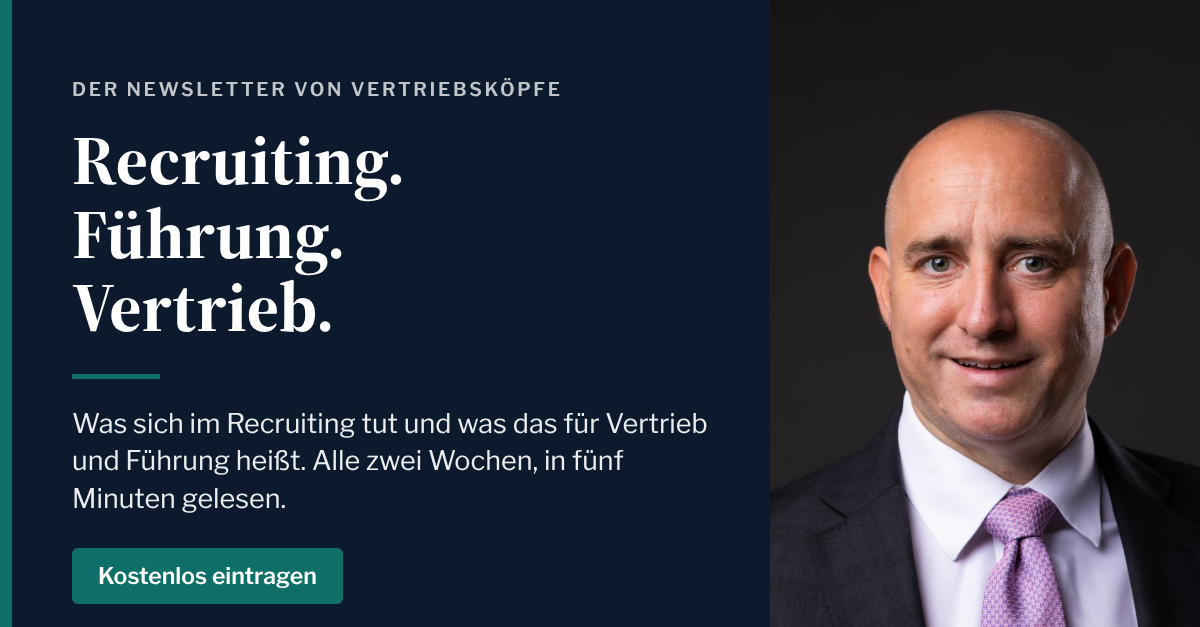
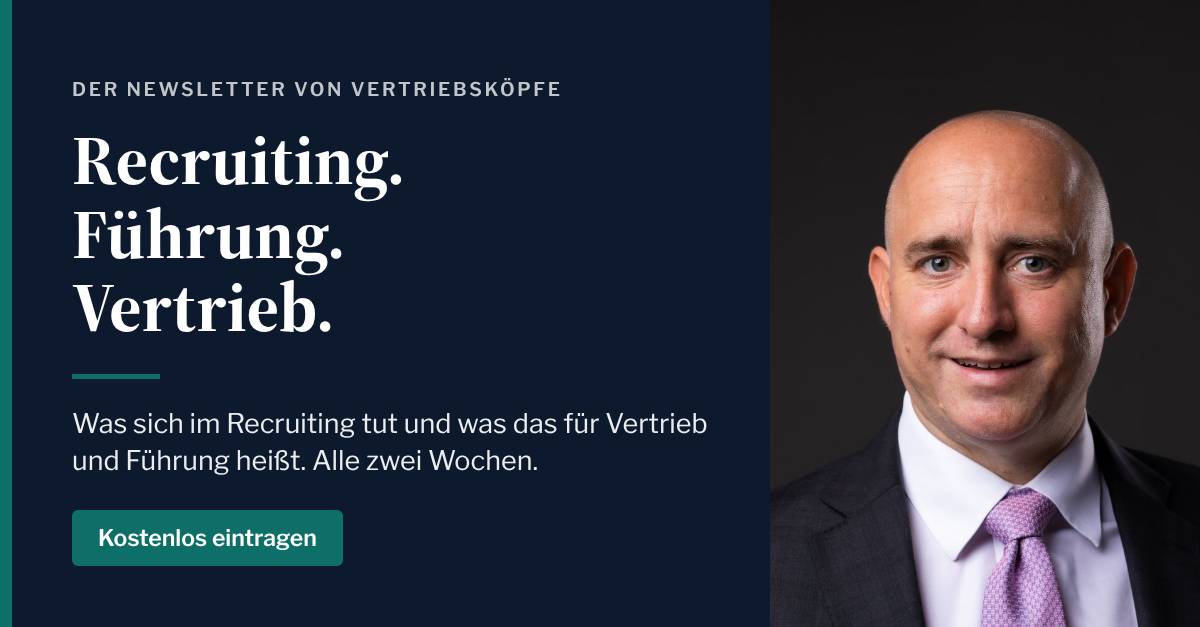
Newsletter: Lesezeit-Hinweis entfernt

Changed region(s): [[0.0617, 0.7576, 0.3083, 0.9697], [0.4317, 0.7273, 0.5242, 0.7576]]

diff --git a/newsletter/index.html b/newsletter/index.html
@@ -797,7 +797,7 @@
 <section>
   <div class="wrap">
     <p class="eyebrow rev">Was in jeder Ausgabe steht</p>
-    <h2 class="rev">Sechs feste Teile. In fünf Minuten gelesen.</h2>
+    <h2 class="rev">Sechs feste Teile in jeder Ausgabe.</h2>
     <div class="dl-raster nl-blocks rev">
       <div class="dl-karte"><p class="step">1 · Szene</p><h3>Aus der Praxis</h3><p>Eine echte Situation aus Vertrieb und Personalberatung. Was passiert ist und was man daraus macht.</p></div>
       <div class="dl-karte"><p class="step">2 · Die Zahl</p><h3>Aus echten Stellenanzeigen</h3><p>Eine Zahl aus den Vakanzdaten der Bundesagentur für Arbeit, eingeordnet für Vertriebsstellen.</p></div>

diff --git a/index.html b/index.html
@@ -1001,7 +1001,7 @@
   <div class="wrap">
     <p class="eyebrow rev">Newsletter · <span class="nl-name">Recruiting. Führung. Vertrieb.</span></p>
     <h2 class="rev">Alle zwei Wochen: Recruiting, übersetzt für den Vertrieb.</h2>
-    <p class="lead rev">Eine Szene aus der Praxis, eine Zahl aus echten Stellenanzeigen, ein Werkzeug. In fünf Minuten gelesen, abmelden mit einem Klick.</p>
+    <p class="lead rev">Eine Szene aus der Praxis, eine Zahl aus echten Stellenanzeigen, ein Werkzeug. Abmelden mit einem Klick.</p>
     <div class="cta-row rev"><a class="btn" href="/newsletter/#anmeldung">Newsletter abonnieren</a></div>
   </div>
 </section>

diff --git a/downloads/index.html b/downloads/index.html
@@ -874,7 +874,7 @@
   <div class="wrap">
     <p class="eyebrow rev">Newsletter · <span class="nl-name">Recruiting. Führung. Vertrieb.</span></p>
     <h2 class="rev">Alle zwei Wochen: Recruiting, übersetzt für den Vertrieb.</h2>
-    <p class="lead rev">Eine Szene aus der Praxis, eine Zahl aus echten Stellenanzeigen, ein Werkzeug. In fünf Minuten gelesen, abmelden mit einem Klick.</p>
+    <p class="lead rev">Eine Szene aus der Praxis, eine Zahl aus echten Stellenanzeigen, ein Werkzeug. Abmelden mit einem Klick.</p>
     <div class="cta-row rev"><a class="btn" href="/newsletter/#anmeldung">Newsletter abonnieren</a></div>
   </div>
 </section>

diff --git a/wissen/index.html b/wissen/index.html
@@ -869,7 +869,7 @@
   <div class="wrap">
     <p class="eyebrow rev">Newsletter · <span class="nl-name">Recruiting. Führung. Vertrieb.</span></p>
     <h2 class="rev">Alle zwei Wochen: Recruiting, übersetzt für den Vertrieb.</h2>
-    <p class="lead rev">Eine Szene aus der Praxis, eine Zahl aus echten Stellenanzeigen, ein Werkzeug. In fünf Minuten gelesen, abmelden mit einem Klick.</p>
+    <p class="lead rev">Eine Szene aus der Praxis, eine Zahl aus echten Stellenanzeigen, ein Werkzeug. Abmelden mit einem Klick.</p>
     <div class="cta-row rev"><a class="btn" href="/newsletter/#anmeldung">Newsletter abonnieren</a></div>
   </div>
 </section>

diff --git a/wissen/was-kostet-ein-personalberater-fuer-den-vertrieb/index.html b/wissen/was-kostet-ein-personalberater-fuer-den-vertrieb/index.html
@@ -991,7 +991,7 @@
   <div class="wrap">
     <p class="eyebrow rev">Newsletter · <span class="nl-name">Recruiting. Führung. Vertrieb.</span></p>
     <h2 class="rev">Alle zwei Wochen: Recruiting, übersetzt für den Vertrieb.</h2>
-    <p class="lead rev">Eine Szene aus der Praxis, eine Zahl aus echten Stellenanzeigen, ein Werkzeug. In fünf Minuten gelesen, abmelden mit einem Klick.</p>
+    <p class="lead rev">Eine Szene aus der Praxis, eine Zahl aus echten Stellenanzeigen, ein Werkzeug. Abmelden mit einem Klick.</p>
     <div class="cta-row rev"><a class="btn" href="/newsletter/#anmeldung">Newsletter abonnieren</a></div>
   </div>
 </section>

diff --git a/wissen/was-kostet-eine-unbesetzte-vertriebsstelle/index.html b/wissen/was-kostet-eine-unbesetzte-vertriebsstelle/index.html
@@ -984,7 +984,7 @@
   <div class="wrap">
     <p class="eyebrow rev">Newsletter · <span class="nl-name">Recruiting. Führung. Vertrieb.</span></p>
     <h2 class="rev">Alle zwei Wochen: Recruiting, übersetzt für den Vertrieb.</h2>
-    <p class="lead rev">Eine Szene aus der Praxis, eine Zahl aus echten Stellenanzeigen, ein Werkzeug. In fünf Minuten gelesen, abmelden mit einem Klick.</p>
+    <p class="lead rev">Eine Szene aus der Praxis, eine Zahl aus echten Stellenanzeigen, ein Werkzeug. Abmelden mit einem Klick.</p>
     <div class="cta-row rev"><a class="btn" href="/newsletter/#anmeldung">Newsletter abonnieren</a></div>
   </div>
 </section>
